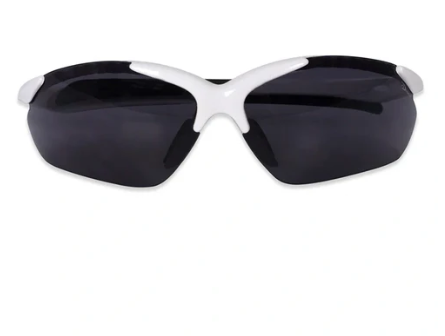
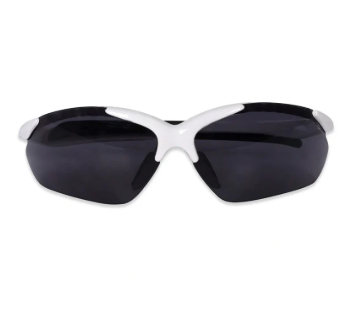
Product Grid images changed

Changed region(s): [[0.0303, 0.1433, 0.9697, 0.6592]]

diff --git a/Assets/styles.css b/Assets/styles.css
@@ -5,7 +5,7 @@
 }
 body {
     font-family: Arial, Helvetica, sans-serif;
-    background-color: #f5f6fa;
+    background-color: #ffffff;
     color: #ffffff;
     line-height: 1.6;
 }
@@ -109,7 +109,7 @@ img {
     gap: 25px;
 }
 .category-card {
-    background-color: #fff;
+    background-color: #f4f5f9;
     padding: 20px;
     border-radius: 12px;
     transition: 0.3s;

diff --git a/index.html b/index.html
@@ -27,7 +27,7 @@
         </nav>
         <section class="hero">
             <div class="hero-image">
-                <img src="assets/Images/hero_image.jpg" alt="Hero Glasses">
+                <img src="assets/Images/Banner image 2.jpg" alt="Hero Glasses">
             </div>
         </section>
 <section class="categories">
